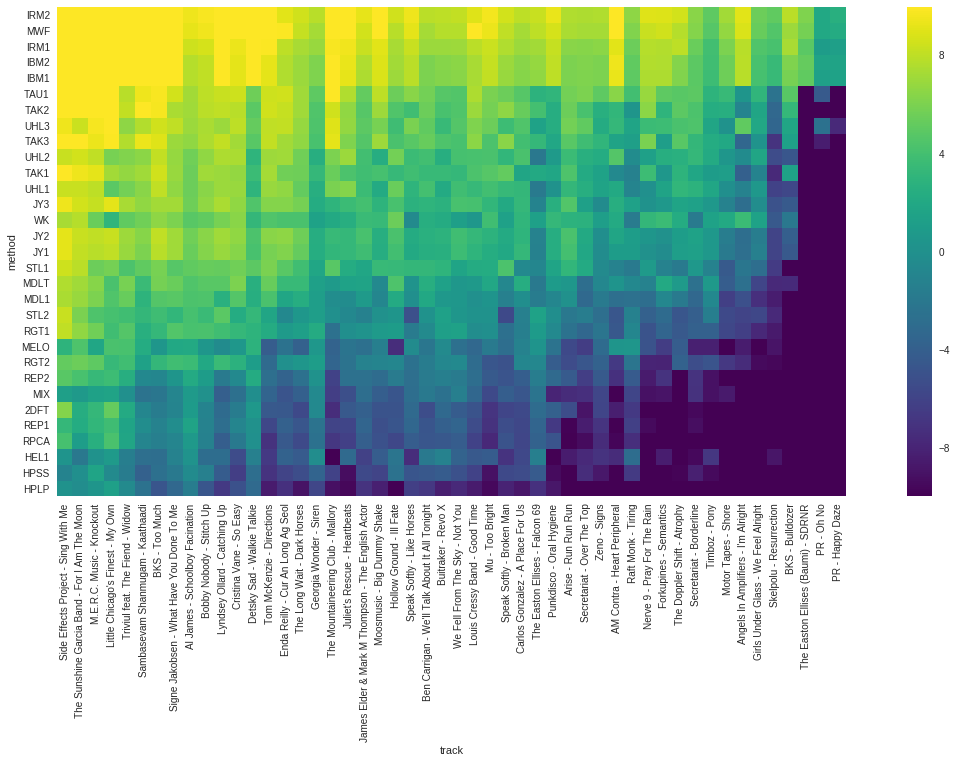
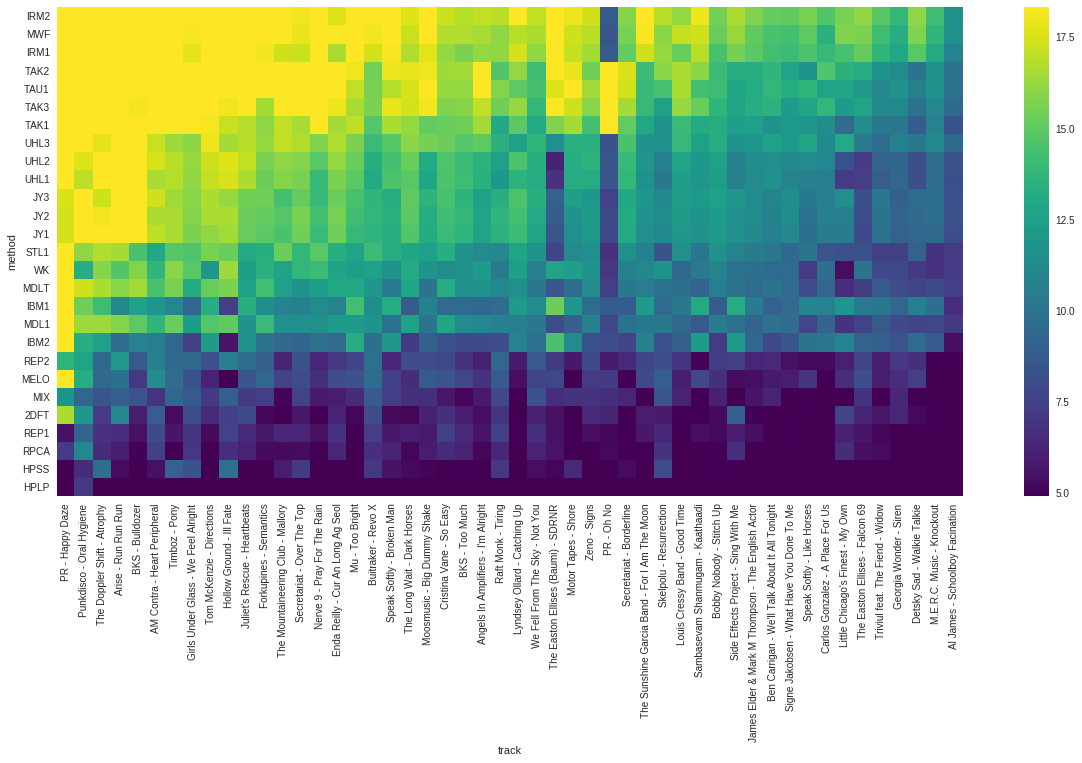
fallback version in case of panic with correct trackwise plot for accompaniment

diff --git a/SiSEC2018report.tex b/SiSEC2018report.tex
@@ -172,7 +172,7 @@ Finally, we display the pair-wise post-hoc Conover-Inman test on Figure \ref{fig
 \begin{figure}
   \begin{center}
      \includegraphics[width=\linewidth]{results/trackwise_vocals.png}
-     \includegraphics[width=\linewidth]{results/trackwise_vocals.png}
+     \includegraphics[width=\linewidth]{results/trackwise_accompaniment.png}
      \vspace{-1cm}
   \end{center}
   \caption{Vocals (top) and accompaniment (below) SDR for all tracks and methods.}
